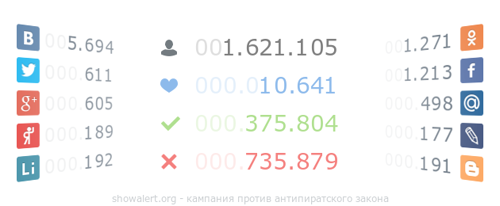
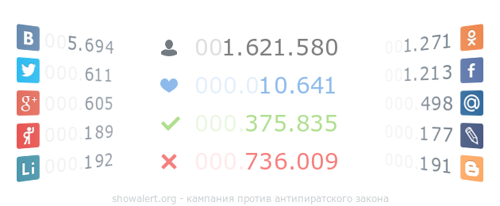
some updates

Changed region(s): [[0.54, 0.7282, 0.66, 0.8447], [0.6, 0.5534, 0.69, 0.6408], [0.6, 0.1748, 0.69, 0.2621]]

diff --git a/votes.js b/votes.js
@@ -1,1 +1,1 @@
-window.lk.votes(24786)
+window.lk.votes(24812)
